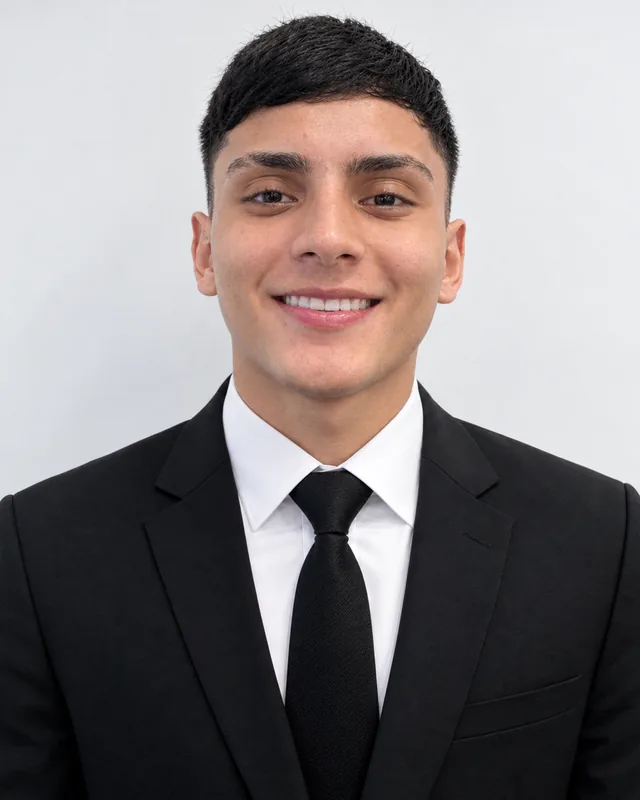
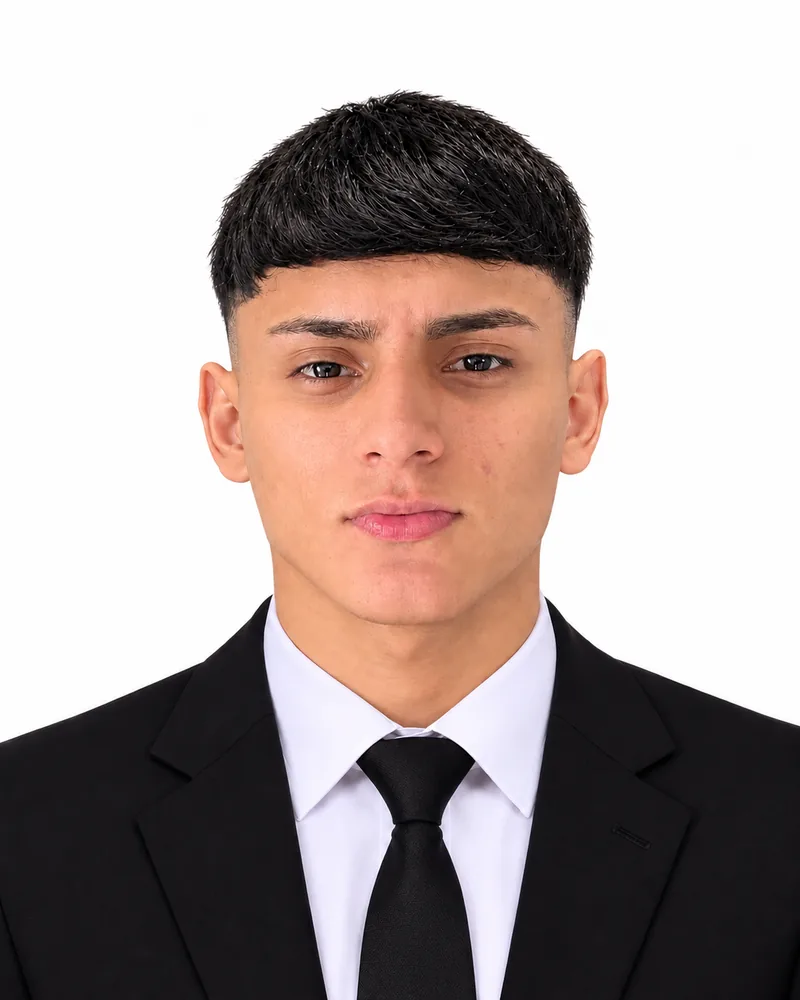
Use the new professional headshot in the About section
Cropped to 4:5 and exported as an 800×1000 WebP (36 KB); alt text updated
in English and Spanish.

Claude-Session: https://claude.ai/code/session_01UGJ4De3WMiCpW9RAkX49ZQ

diff --git a/src/data/translations.ts b/src/data/translations.ts
@@ -56,7 +56,7 @@ const en = {
     index: '01',
     kicker: 'About me',
     title: 'Building real applications, one layer at a time.',
-    photoAlt: 'Portrait of Sebastian Jaimes smiling, wearing a dark suit and tie',
+    photoAlt: 'Portrait of Sebastian Jaimes in a black suit, white shirt and black tie',
     body: [
       'I am a full-stack developer in training at Campuslands, in Bucaramanga, Colombia, finishing the Software Development Technician program in 2026.',
       'My recent work goes from the interface to the database: a perfume store with a React front end, an Express API, Prisma and PostgreSQL, backed by 196 passing unit and API tests; an online ordering system for a local restaurant; and a sales assistant that answers only with data from a real inventory.',
@@ -295,7 +295,7 @@ const es: Dictionary = {
     index: '01',
     kicker: 'Sobre mí',
     title: 'Construyendo aplicaciones reales, capa por capa.',
-    photoAlt: 'Retrato de Sebastian Jaimes sonriendo, con traje oscuro y corbata',
+    photoAlt: 'Retrato de Sebastian Jaimes con traje negro, camisa blanca y corbata negra',
     body: [
       'Soy desarrollador full-stack en formación en Campuslands, en Bucaramanga, Colombia, y termino el programa Técnico en Desarrollo de Software en 2026.',
       'Mis proyectos recientes van de la interfaz a la base de datos: una tienda de perfumes con frontend en React, API en Express, Prisma y PostgreSQL, respaldada por 196 pruebas unitarias y de API que pasan; un sistema de pedidos en línea para un restaurante local; y un asistente de ventas que solo responde con datos de un inventario real.',

diff --git a/src/components/About.tsx b/src/components/About.tsx
@@ -21,7 +21,7 @@ export function About() {
                 <span className="portrait__satellite" />
               </span>
               <div className="portrait__frame">
-                <img src={portrait} alt={a.photoAlt} width={640} height={800} loading="lazy" decoding="async" />
+                <img src={portrait} alt={a.photoAlt} width={800} height={1000} loading="lazy" decoding="async" />
               </div>
               <figcaption className="portrait__tag">
                 <strong>{site.name}</strong>
